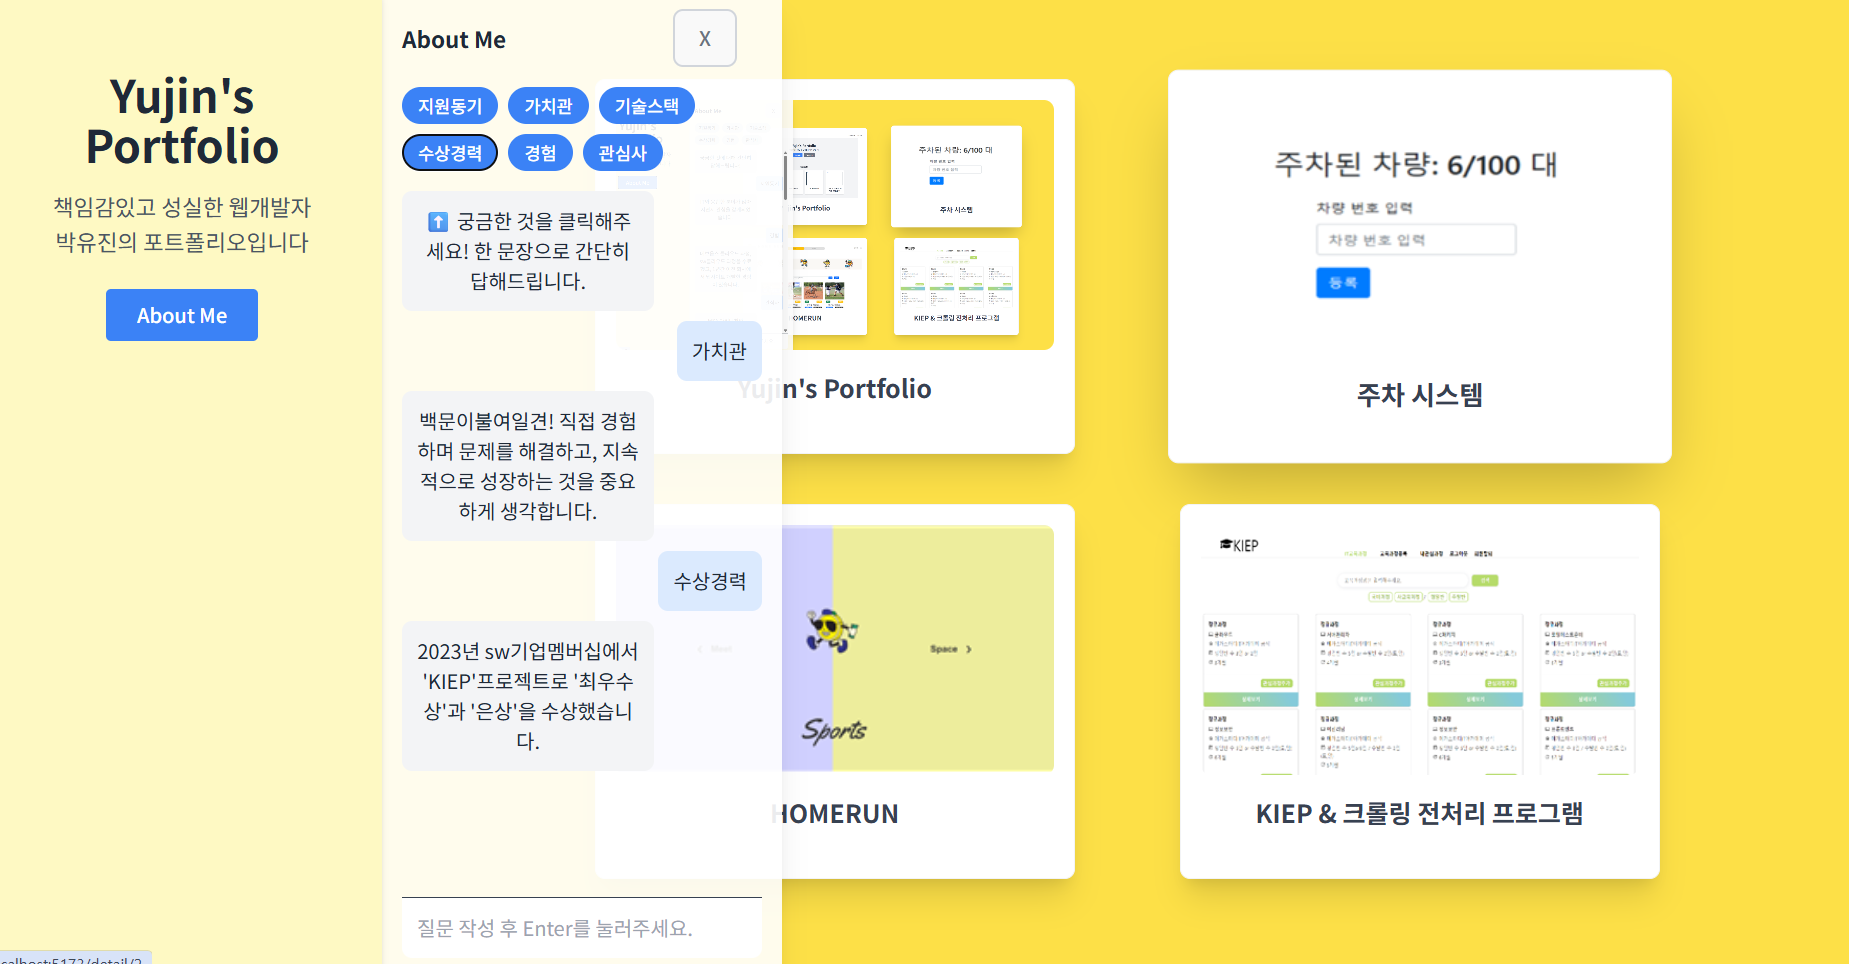
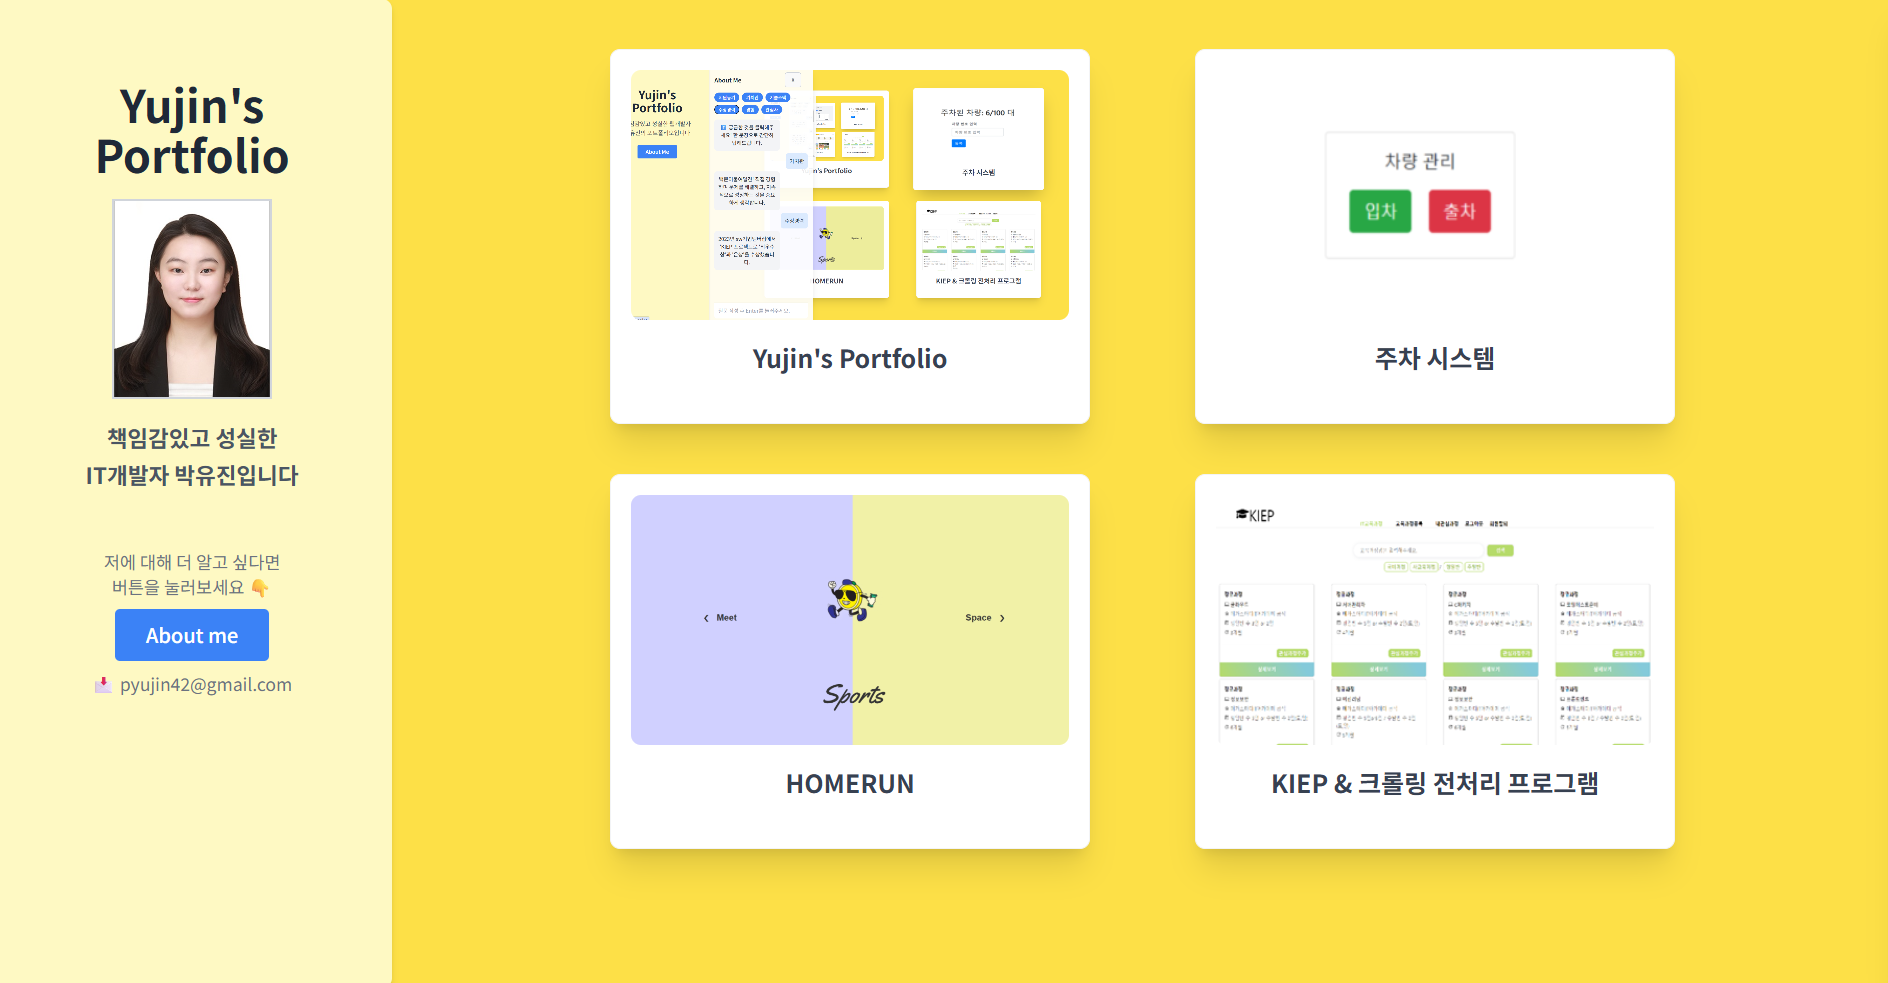
디자인 전체 수정

diff --git a/src/components/Chatbot.jsx b/src/components/Chatbot.jsx
@@ -8,18 +8,16 @@ function Chatbot({ chatbotOpen, toggleChatbot }) {
   const [input, setInput] = useState('');
   const chatEndRef = useRef(null);
 
-  const suggestions = ['지원동기', '가치관', '기술스택', '수상경력', '경험', '관심사' ];
+  const suggestions = ['지원동기', '가치관', '기술스택', '수상경력', '경험', '자격증' ];
 
   const sendMessage = async (question) => {
     setMessages((prev) => [...prev, { from: 'user', text: question }]);
-
     const res = await fetch(`${VITE_CHATBOT_URL}/chatbot`, {
       method: 'POST',
       headers: { 'Content-Type': 'application/json' },
       body: JSON.stringify({ question })
     });
     const data = await res.json();
-    // console.log(data)
     setMessages((prev) => [...prev, { from: 'bot', text: data.answer }]);
   };
 
@@ -36,64 +34,59 @@ function Chatbot({ chatbotOpen, toggleChatbot }) {
   };
 
   useEffect(() => {
-    // chatEndRef.current.scrollIntoView()를 호출하여 최신 메시지로 스크롤
-      chatEndRef.current?.scrollIntoView({ behavior: 'smooth' });
-    }, [messages]
-  );
+    chatEndRef.current?.scrollIntoView({ behavior: 'smooth' });
+  }, [messages]);
 
   return (
-    <div className="z-10">
-      <div
-        className={`${
-          chatbotOpen ? 'translate-x-0' : 'translate-x-full'
-        } transition-transform duration-1000 ease-out absolute left-0 top-0 w-[320px] h-full bg-white/90 shadow-xl p-4 rounded-l-lg flex flex-col`}
-      >
-        <div className="flex justify-between items-center mb-4">
-          <h3 className="text-lg font-semibold text-gray-800">About Me</h3>
-          <button onClick={toggleChatbot} className="text-gray-500 text-m mr-5 border-2 border-gray-300">X</button>
-        </div>
-
-        {/* 추천 질문 버튼 영역 */}
-        <div className="flex flex-wrap gap-2 mb-4">
-          {suggestions.map((item, idx) => (
-            <button
-              key={idx}
-              onClick={() => handleSuggestionClick(item)}
-              className="bg-blue-500 text-white px-3 py-1 rounded-full text-sm hover:bg-blue-600 transition"
-            >
-              {item}
-            </button>
-          ))}
-        </div>
-
-        {/* 채팅 메시지 영역 */}
-        <div className="flex-1 overflow-auto">
-          <div className="flex flex-col space-y-2">
-            {messages.map((msg, idx) => (
-              <div
-                key={idx}
-                className={`p-3 rounded-lg max-w-[70%] ${
-                  msg.from === 'bot' ? 'bg-gray-100 self-start' : 'bg-blue-100 self-end'
-                }`}
-              >
-                <p className="text-gray-800">{msg.text}</p>
-              </div>
-            ))}
-            <div ref={chatEndRef} />
-          </div>
-        </div>
-
-
-        {/* 입력창 */}
-        <input
-          type="text"
-          placeholder="질문 작성 후 Enter를 눌러주세요."
-          className="p-3 border-t border-gray-700 rounded-b-lg w-full"
-          value={input}
-          onChange={(e) => setInput(e.target.value)}
-          onKeyDown={handleKeyDown}
-        />
+    <div
+      className={`${
+    chatbotOpen ? 'translate-x-0' : 'translate-x-full'
+  } transition-transform duration-700 ease-out fixed top-0 right-0 w-[320px] h-screen bg-white/90 shadow-xl p-4 flex flex-col z-50`}
+    >
+      <div className="flex justify-between items-center mb-4">
+        <h3 className="text-lg font-semibold text-gray-800">About Me</h3>
+        <button onClick={toggleChatbot} className="text-gray-500 text-m mr-5 border-2 border-gray-300">X</button>
       </div>
+
+      {/* 추천 질문 버튼 */}
+      <div className="flex flex-wrap gap-2 mb-4">
+        {suggestions.map((item, idx) => (
+          <button
+            key={idx}
+            onClick={() => handleSuggestionClick(item)}
+            className="bg-blue-500 text-white px-3 py-1 rounded-full text-sm hover:bg-blue-600 transition"
+          >
+            {item}
+          </button>
+        ))}
+      </div>
+
+      {/* 메시지 영역 */}
+      <div className="flex-1 overflow-auto">
+        <div className="flex flex-col space-y-2">
+          {messages.map((msg, idx) => (
+            <div
+              key={idx}
+              className={`p-3 rounded-lg max-w-[70%] ${
+                msg.from === 'bot' ? 'bg-gray-100 self-start' : 'bg-blue-100 self-end'
+              }`}
+            >
+              <p className="text-gray-800">{msg.text}</p>
+            </div>
+          ))}
+          <div ref={chatEndRef} />
+        </div>
+      </div>
+
+      {/* 입력창 */}
+      <input
+        type="text"
+        placeholder="질문 작성 후 Enter를 눌러주세요."
+        className="p-3 border-t border-gray-700 rounded-b-lg w-full"
+        value={input}
+        onChange={(e) => setInput(e.target.value)}
+        onKeyDown={handleKeyDown}
+      />
     </div>
   );
 }

diff --git a/src/components/ProfileSection.jsx b/src/components/ProfileSection.jsx
@@ -1,22 +1,41 @@
 function ProfileSection({ toggleChatbot }) {
-    return (
-      <div className="w-[320px] bg-yellow-100 p-6 rounded-lg shadow-md z-20">
-        <h1 className="text-4xl font-bold text-gray-800 mb-4 mt-10">Yujin's Portfolio</h1>
-        <p className="text-lg text-gray-600 mb-6">
-          책임감있고 성실한 웹개발자<br />
-          박유진의 포트폴리오입니다
-        </p>
-        <div className="flex justify-center space-x-4">
-          <button
-            onClick={toggleChatbot}
-            className="px-6 py-2 bg-blue-500 text-white rounded hover:bg-blue-600"
-          >
-            About Me
-          </button>
-        </div>
+  return (
+    <div className=" bg-yellow-100 p-6 rounded-lg shadow-md z-20 h-screen">
+      <h1 className="text-4xl font-bold text-gray-800 mb-4 mt-10 text-center">
+        Yujin's Portfolio
+      </h1>
+
+      <div className="flex justify-center mb-4">
+        <img
+          src="/public/imgs/yujin.jpg"
+          alt="Yujin Profile"
+          className="w-32 h-40 rounded-none object-cover border-2 border-gray-300"
+        />
       </div>
-    );
-  }
-  
-  export default ProfileSection;
-  
+
+      <p className="text-lg text-gray-600 mb-4 text-center leading-relaxed font-semibold">
+        책임감있고 성실한<br />
+        IT개발자 박유진입니다 <br />
+        <br />
+      </p>
+
+      <div className="flex flex-col items-center space-y-2">
+        <span className="text-sm text-gray-500">저에 대해 더 알고 싶다면 <br /> 버튼을 눌러보세요 👇</span>
+        <button
+          onClick={toggleChatbot}
+          className="px-6 py-2 bg-blue-500 text-white rounded hover:bg-blue-600"
+        >
+          About me
+        </button>
+        <span className="text-sm text-gray-500 mt-8">📩 pyujin42@gmail.com</span>
+      </div>
+
+      <div className="mt-20 text-center text-gray-700 text-sm md:hidden">
+        ⬇ 아래로 스크롤해서 프로젝트를 확인해보세요!
+      </div>
+
+    </div>
+  );
+}
+
+export default ProfileSection;

diff --git a/src/pages/Home.jsx b/src/pages/Home.jsx
@@ -8,15 +8,38 @@ function Home() {
   const toggleChatbot = () => setChatbotOpen(!chatbotOpen);
 
   return (
-    <main className="h-screen flex md:px-0">
-      <section className="flex w-full relative">
+    // <main className="h-screen flex md:px-0 md:flex-row">
+    //   <section className="flex w-full relative">
+    //     {/* 왼쪽 사이드바 */}
+    //     <div className="relative md:static md:w-[320px] z-20">
+    //       <ProfileSection toggleChatbot={toggleChatbot} />
+    //     </div>
+
+    //     {/* 프로젝트 리스트 */}
+    //     <div className="flex-1 z-10">
+    //       <ProjectList />
+    //     </div>
+
+    //     {/* 채팅봇: ProjectList 위에 겹치는 구조 */}
+    //     <Chatbot chatbotOpen={chatbotOpen} toggleChatbot={toggleChatbot} />
+    //   </section>
+    // </main>
+
+    <main className="h-screen flex flex-col md:flex-row relative">
+      {/* 사이드바: 모바일에서는 상단 */}
+      <div className="w-full md:w-[320px] z-20">
         <ProfileSection toggleChatbot={toggleChatbot} />
-        <Chatbot chatbotOpen={chatbotOpen} toggleChatbot={toggleChatbot} />
-        <div className="w-3/4 pl-10">
-          <ProjectList />
-        </div>
-      </section>
+      </div>
+
+      {/* 프로젝트 리스트: 모바일에서는 아래쪽 */}
+      <div className="flex-1 z-10 bg-yellow-300">
+        <ProjectList />
+      </div>
+
+      {/* 챗봇: 절대 위치로 우측에서 덮는 구조 */}
+      <Chatbot chatbotOpen={chatbotOpen} toggleChatbot={toggleChatbot} />
     </main>
+
   );
 }
 

diff --git a/src/components/ProjectList.jsx b/src/components/ProjectList.jsx
@@ -21,15 +21,13 @@ function ProjectList() {
   }, []);
 
   return (
-    <section
-      className="min-h-screen flex flex-col items-center justify-center px-4"
-    >
+    <section className="flex flex-col items-center px-4 pt-6 md:pt-10 bg-yellow-300 md:bg-white pb-24 md:pb-8">
       <div className="grid grid-cols-1 sm:grid-cols-2 gap-10 max-w-4xl w-full justify-items-center">
         {projects.map((project) => (
           <Link
             key={project.num}
             to={`/detail/${project.num}`}
-            className="bg-white rounded-lg border border-gray-100 shadow-xl p-4 transform transition-transform hover:scale-105 hover:shadow-2xl cursor-pointer w-full max-w-sm min-h-[300px] -translate-y-1"
+            className="bg-white rounded-lg border border-gray-100 shadow-xl p-4 transform transition-transform hover:scale-105 hover:shadow-2xl cursor-pointer w-full max-w-sm min-h-[300px]"
           >
             <img
               src={`/public/imgs/${project.web[0]}`}
@@ -43,6 +41,7 @@ function ProjectList() {
         ))}
       </div>
     </section>
+
   );
 }
 

diff --git a/src/components/Footer.jsx b/src/components/Footer.jsx
@@ -2,8 +2,8 @@ import React from 'react';
 
 const Footer = () => {
   return (
-    <footer className="w-full bg-yellow-300 border-t border-gray-200 text-center">
-      <p className="text-gray-500 text-sm">
+    <footer className="w-full bg-white text-center">
+      <p className="text-gray-500 text-sm mt-5 mb-5">
         © 2025 Yujin's Portfolio. All rights reserved.
       </p>
     </footer>

diff --git a/src/App.jsx b/src/App.jsx
@@ -19,7 +19,7 @@ function App() {
           <Route path="/detail/:num" element={<Detail />} />
         </Routes>
       </div>
-      {/* <Footer /> */}
+      <Footer />
       </div>
     </Router>
   );
